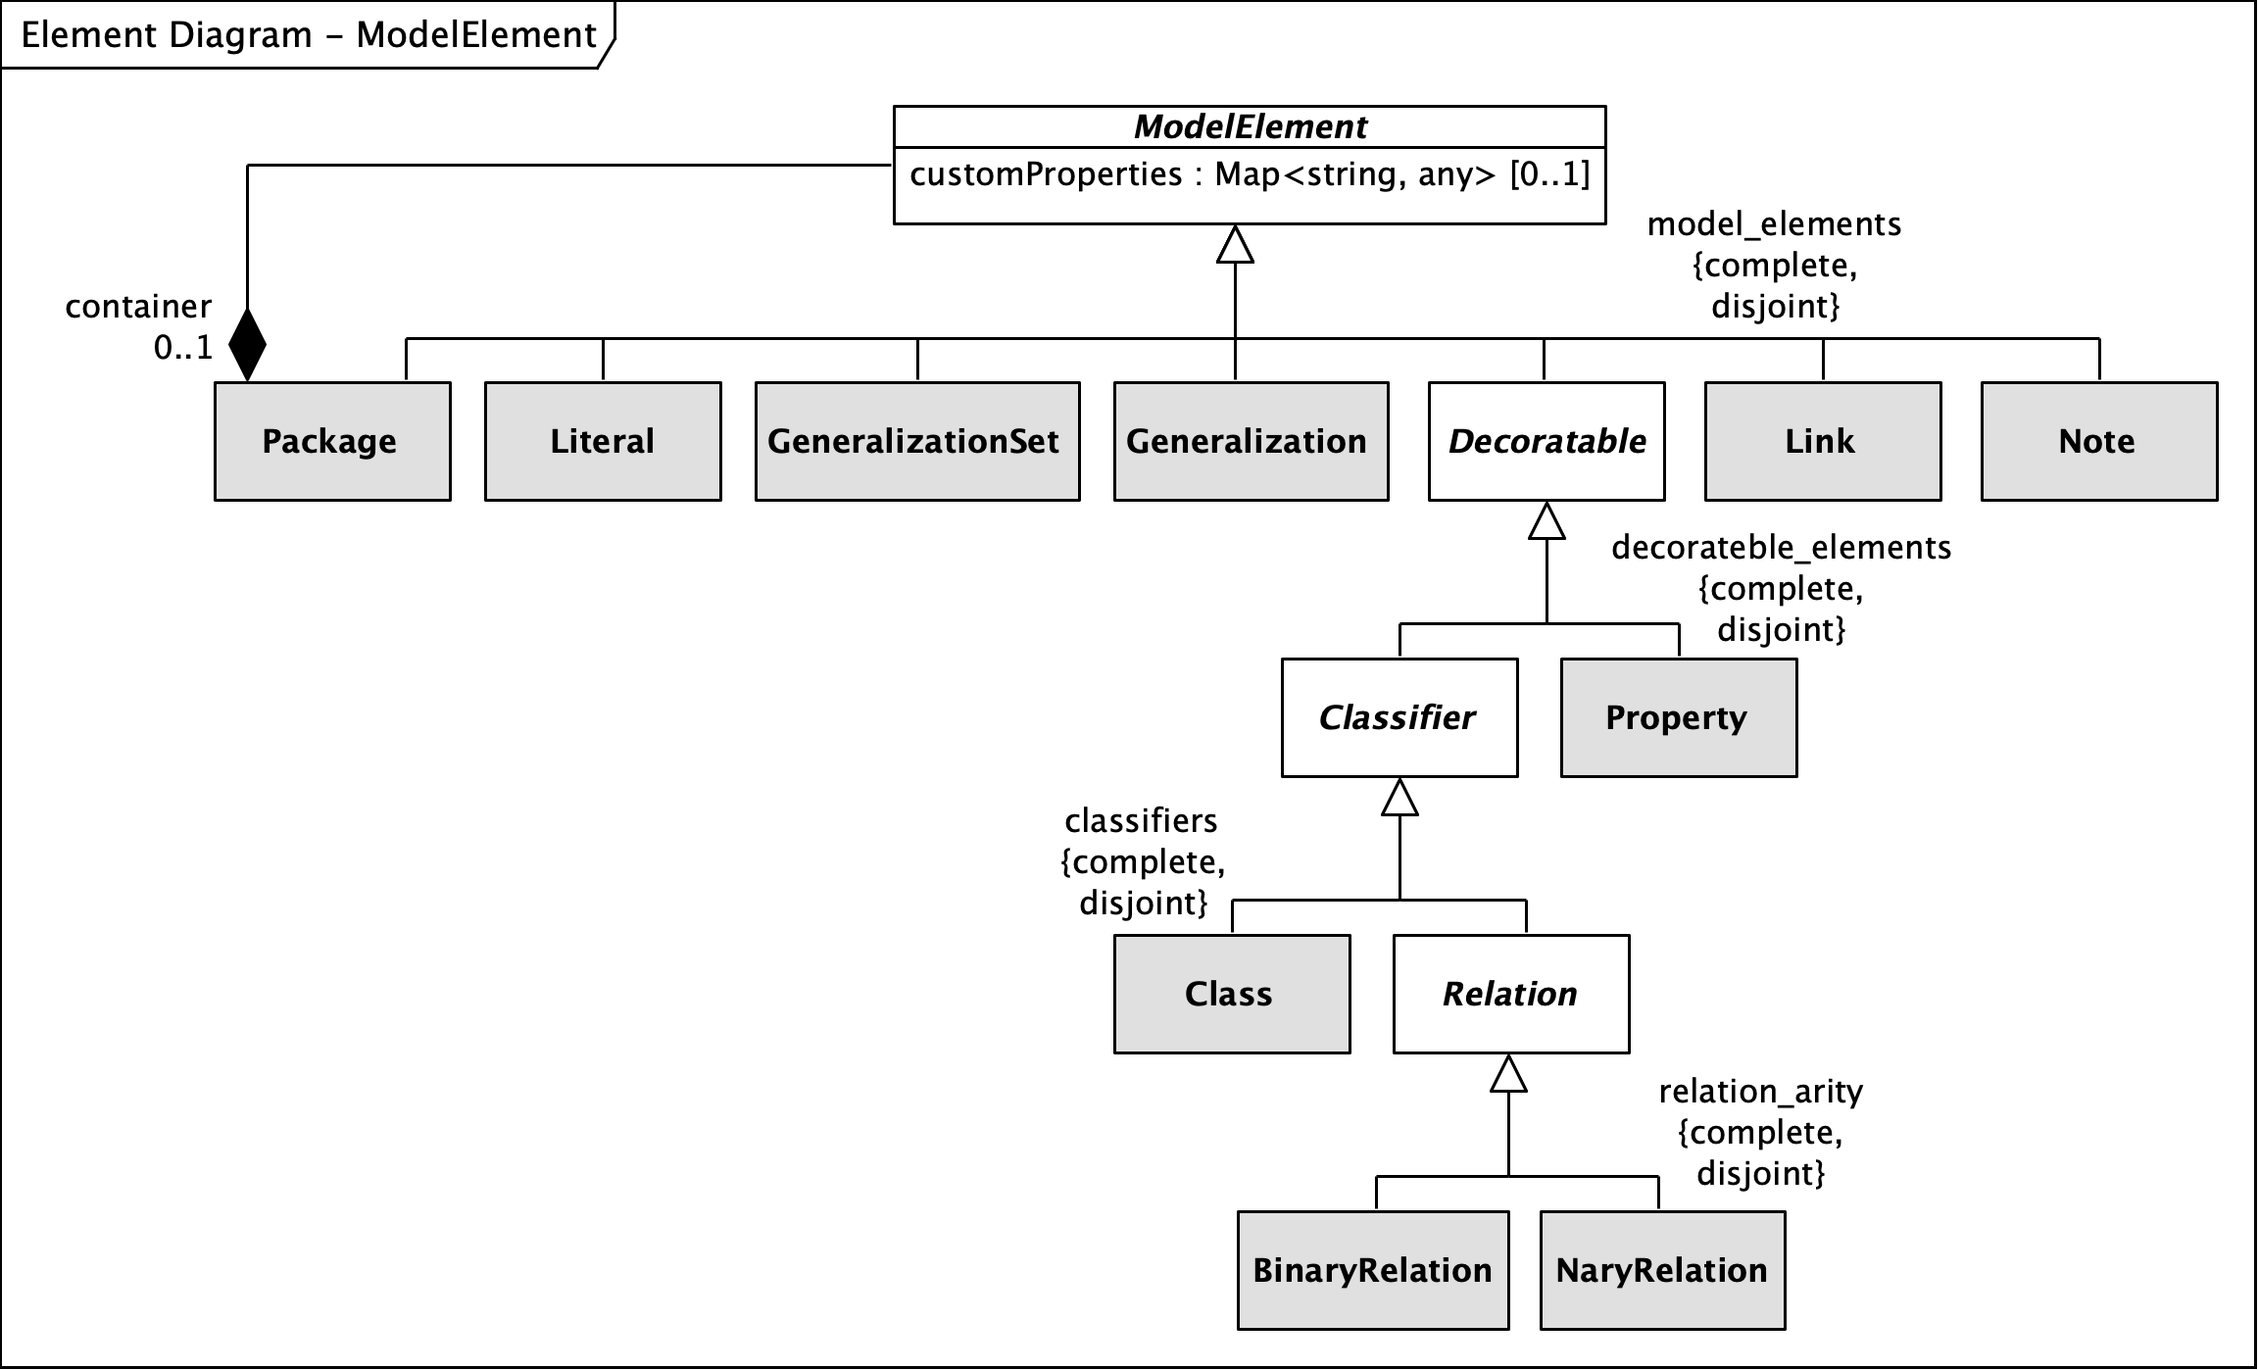
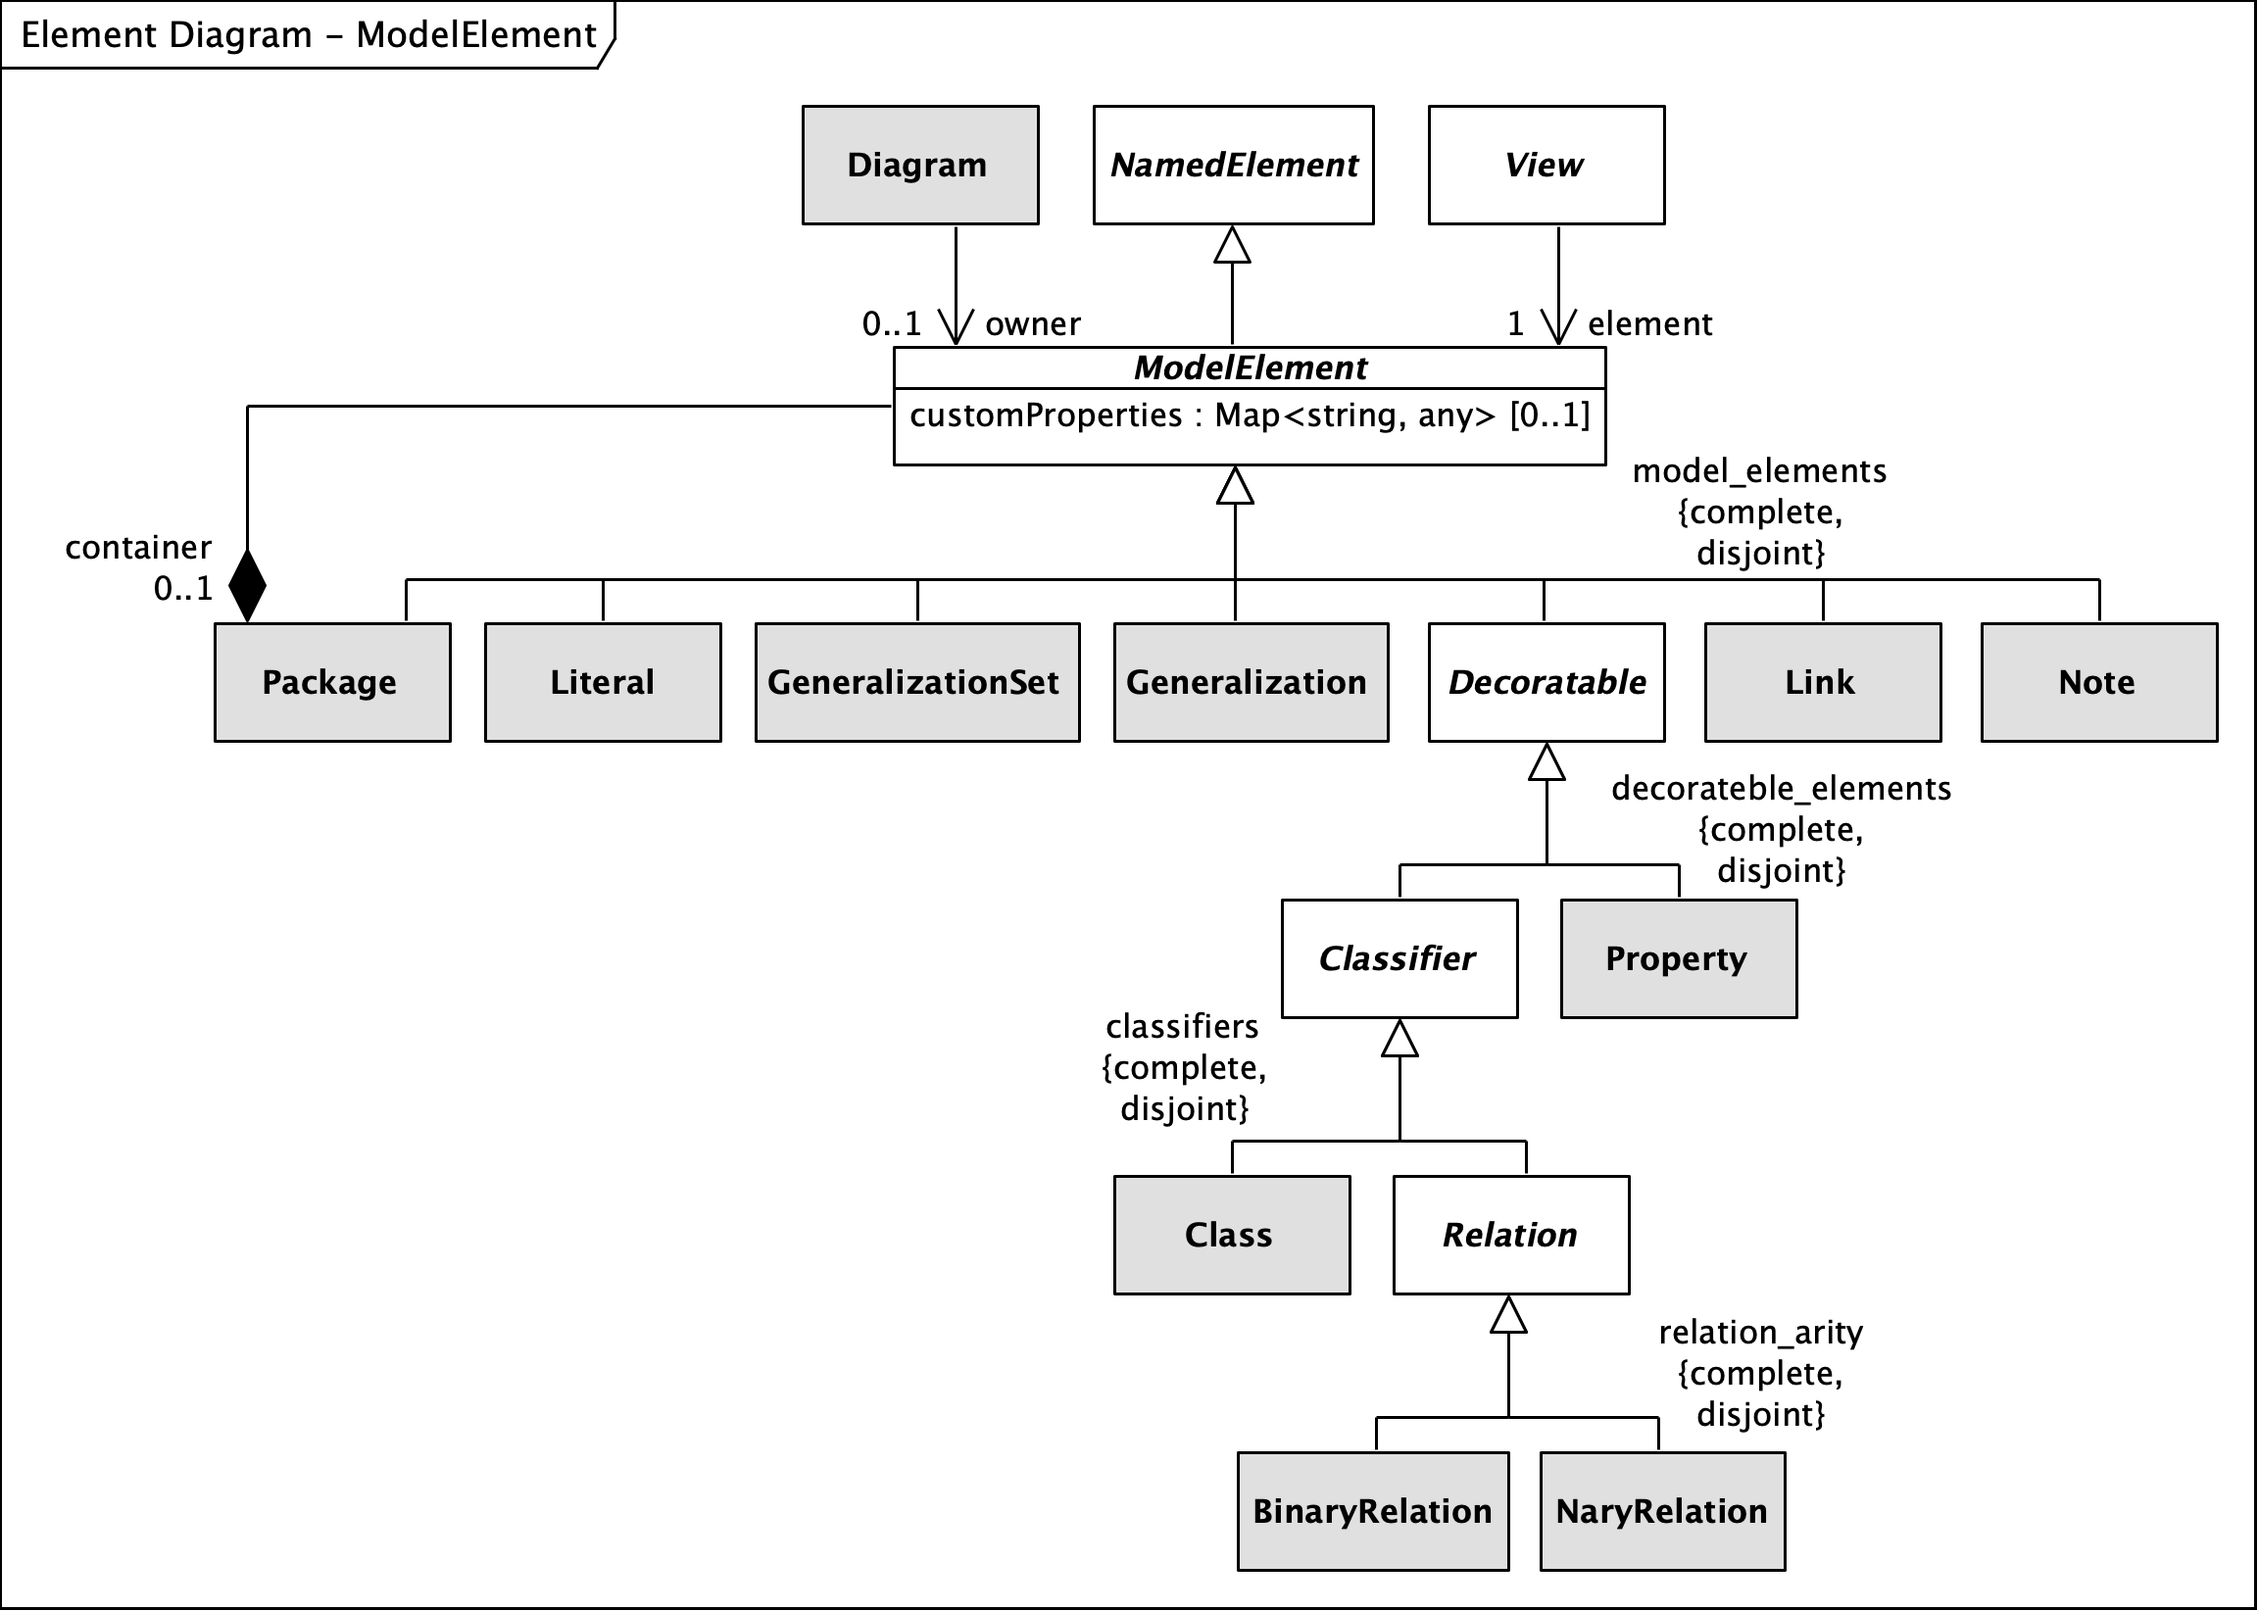
[WIP] Update metamodel documentation

Changed region(s): [[0.0312, 0.0615, 1.0, 0.8305], [0.5312, 0.769, 0.8125, 0.9843], [0.0, 0.0, 0.2812, 0.0615]]

diff --git a/docs/meta/overview.md b/docs/meta/overview.md
@@ -2,37 +2,29 @@
 sidebar_position: 1
 ---
 
-<!-- # Overview
-
-Originally defined as a profile of UML, OntoUML is an ontology-driven conceptual modeling language that provides modelers with constructs (e.g., classes and associations) well-defined according to the [Unified Foundational Ontology (UFO)](https://nemo.inf.ufes.br/en/projetos/ufo/).
-
-In this webpage, you will find the complete documentation of the [OntoUML Metamodel](https://github.com/OntoUML/ontouml-metamodel), a project that provides the reference for every implementation of the OntoUML language (e.g., language syntaxes, serializations, software libraries).
-
-This documentation is structured into two parts:
-
-- User guide: a guide for OntoUML developers to understand the metamodel in its uses and structure.
-- Technical documentation: a technical list of definitions for all metamodel elements. -->
-
 # Overview
 
 Through the OntoUML Metamodel, the OntoUML should be seen as a [FAIR](https://www.go-fair.org/fair-principles/) language by design, which means that it incorporates into the metamodel the principles of **F**indability, **I**nteroperability, **A**ccessibility, and **R**eusability, all relevant principles for ontologies as artifacts in special in a web context.
 
-![](../diagrams/Element%20Diagram%20-%20OntoumlElement.png)
+![](diagrams/Element%20Diagram%20-%20OntoumlElement.png)
 
-In OntoUML, all elements that bear an identifier instantiate [`OntoumlElement`](./../../definitions#OntoumlElement). Besides an `id`, these elements also have the properties `created` and `modified` of type date. All elements within a single ontology are aggregated in  [`Project`](./../../definitions#Project) element (except for projects themselves). Moreover, every instance of `OntoumlElement` can be organized as part of either the abstract syntax (i.e., [`ModelElement`](./../../definitions#ModelElement)) or the concrete syntax (i.e., [`Diagram`](./../../definitions#Diagram), [`View`](./../../definitions#View), or [`Shape`](./../../definitions#Shape)) of the language.
+In OntoUML, all elements that bear an identifier instantiate [`OntoumlElement`](./../definitions#OntoumlElement). Besides an `id`, these elements also have the properties `created` and `modified` of type date. All elements within a single ontology are aggregated in  [`Project`](./../definitions#Project) element (except for projects themselves). Moreover, every instance of `OntoumlElement` can be organized as part of either the abstract syntax (i.e., [`ModelElement`](./../definitions#ModelElement)) or the concrete syntax (i.e., [`Diagram`](./../definitions#Diagram), [`View`](./../definitions#View), or [`Shape`](./../definitions#Shape)) of the language.
 
-![](../diagrams/Element%20Diagram%20-%20NamedElement.png)
+![](diagrams/Element%20Diagram%20-%20NamedElement.png)
 
-In addition to an identifier, instances of [`NamedElement`](./../../definitions#NamedElement) (i.e., diagrams, model elements, and projects) can also have descriptive information like `name`, `alternativeNames`, `description`, and `editorialNotes`, all of which are multilingual properties of type [`LanguageString`](./../../definitions#LanguageString). The datatype [`Resource`](./../../definitions#Resource) is used whenever a reference to an external resource is necessary, either through a `name` or a `URI`. This is the case for the properties `creators` and `contributors`, for instance.
+In addition to an identifier, instances of [`NamedElement`](./../definitions#NamedElement) (i.e., diagrams, model elements, and projects) can also have descriptive information like `name`, `alternativeNames`, `description`, and `editorialNotes`, all of which are multilingual properties of type [`LanguageString`](./../definitions#LanguageString). The datatype [`Resource`](./../definitions#Resource) is used whenever a reference to an external resource is necessary, either through a `name` or a `URI`. This is the case for the properties `creators` and `contributors`, for instance.
 
-![](../diagrams/Element%20Diagram%20-%20Project.png)
+![](diagrams/Element%20Diagram%20-%20Project.png)
 
-Instances of [`Project`](./../../definitions#Project) not only aggregate the entire ontology (i.e., the elements of both concrete and abstract syntaxes), they also have the metadata relevant for the entire ontology (e.g., `theme` and `publisher`). The `namespace` property also support the definition of a prefix for the IDs of all other elements that are not already formed as a URI.
-
-![](../diagrams/Element%20Diagram%20-%20ModelElement.png)
-
+Instances of [`Project`](./../definitions#Project) not only aggregate the entire ontology (i.e., the elements of both concrete and abstract syntaxes), they also have the metadata relevant for the entire ontology (e.g., `theme` and `publisher`). The `namespace` property also support the definition of a prefix for the IDs of all other elements that are not already formed as a URI.
 
 ## Abstract Syntax
+
+![](diagrams/Element%20Diagram%20-%20ModelElement.png)
+
+All elements that have are explicitly represented in an OntoUML diagram specialize [`ModelElement`](./../definitions#ModelElement): `Package`, `Class`, `BinaryRelation`, `NaryRelation`, `Property`, `Literal`, `Generalization`, `GeneralizationSet`, `Note`, and `Link`. This representation is done through specific type of `View` for each type of `ModelElement`. In addition, a `ModelElement` can also be the `owner` of a `Diagram`.
+
+![](diagrams/Element%20Diagram%20-%20Class.png)
 
 
 

diff --git a/docs/meta/definitions.md b/docs/meta/definitions.md
@@ -1,8 +1,16 @@
 ---
-sidebar_position: 3
+sidebar_position: 2
 ---
 
 # Definitions
+
+## `ModelElement` {#ModelElement}
+
+## `Diagram` {#Diagram}
+
+## `View` {#View}
+
+## `Shape` {#Shape}
 
 ## `NamedElement` {#NamedElement}
 
